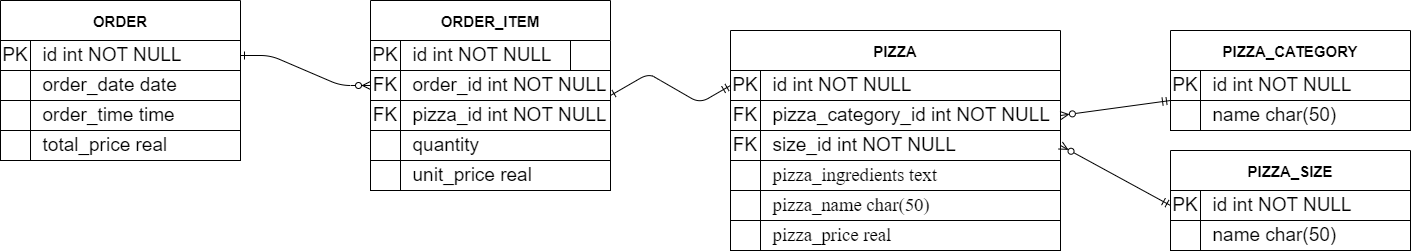
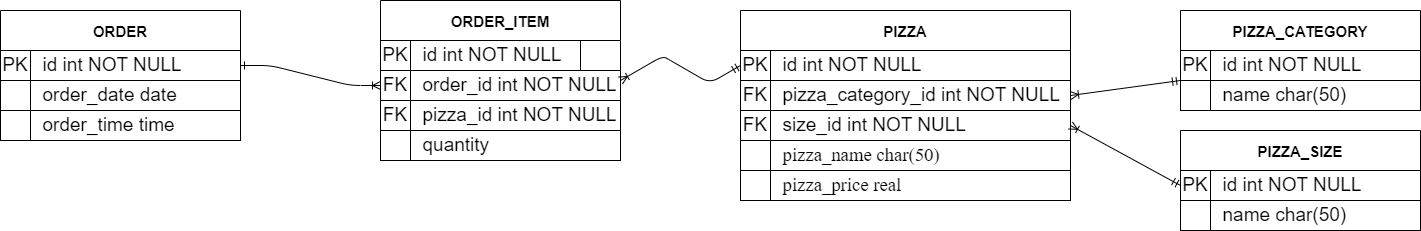
Fixed some mistakes

diff --git a/visualization.py b/visualization.py
@@ -1,5 +1,6 @@
 import psycopg2
 import matplotlib.pyplot as plt
+from matplotlib.ticker import MaxNLocator
 
 
 username = 'postgres'
@@ -21,14 +22,17 @@ LEFT JOIN order_item ON order_item.pizza_id = pizza.id
 GROUP BY pizza.id;
 '''
 query_3 = '''
-SELECT "order".id, SUM(order_item.total_price) 
+SELECT "order".id, SUM(order_item.quantity*pizza.price) 
 FROM "order"
 LEFT JOIN order_item ON order_item.order_id = "order".id
+LEFT JOIN pizza ON order_item.pizza_id = pizza.id
 GROUP BY "order".id
-ORDER BY "order".id
+ORDER BY "order".id;
 '''
 
 conn = psycopg2.connect(user=username, password=password, dbname=database, host=host, port=port)
+ax = plt.figure().gca()
+ax.xaxis.set_major_locator(MaxNLocator(integer=True))
 
 with conn:
     cur1 = conn.cursor()
@@ -70,8 +74,21 @@ with conn:
         orderId.append(row[0])
         price.append(row[1])
 
+    # plt.plot(orderId, price)
+    # plt.plot(price, marker='o')
+    # plt.title('Вартість кожного замовлення', size=10)
+    # plt.ylabel('Загальна вартіть', size=10)
+    # plt.show()
+
+    ax = plt.figure().gca()
+    ax.xaxis.set_major_locator(MaxNLocator(integer=True))
+
     plt.plot(orderId, price)
-    plt.plot(price, marker='o')
-    plt.title('Вартість кожного замовлення', size=20)
-    plt.ylabel('Загальна вартіть', size=15)
+    plt.xlabel('Номер замовлення')
+    plt.ylabel('Ціна, $')
+    plt.title('Графік залежності ціни від номеру замовлення')
+
+    # for qnt, iprice in zip(orderId, price):
+    #     plt.annotate(iprice, xy=(qnt, ""+iprice))
+
     plt.show()
